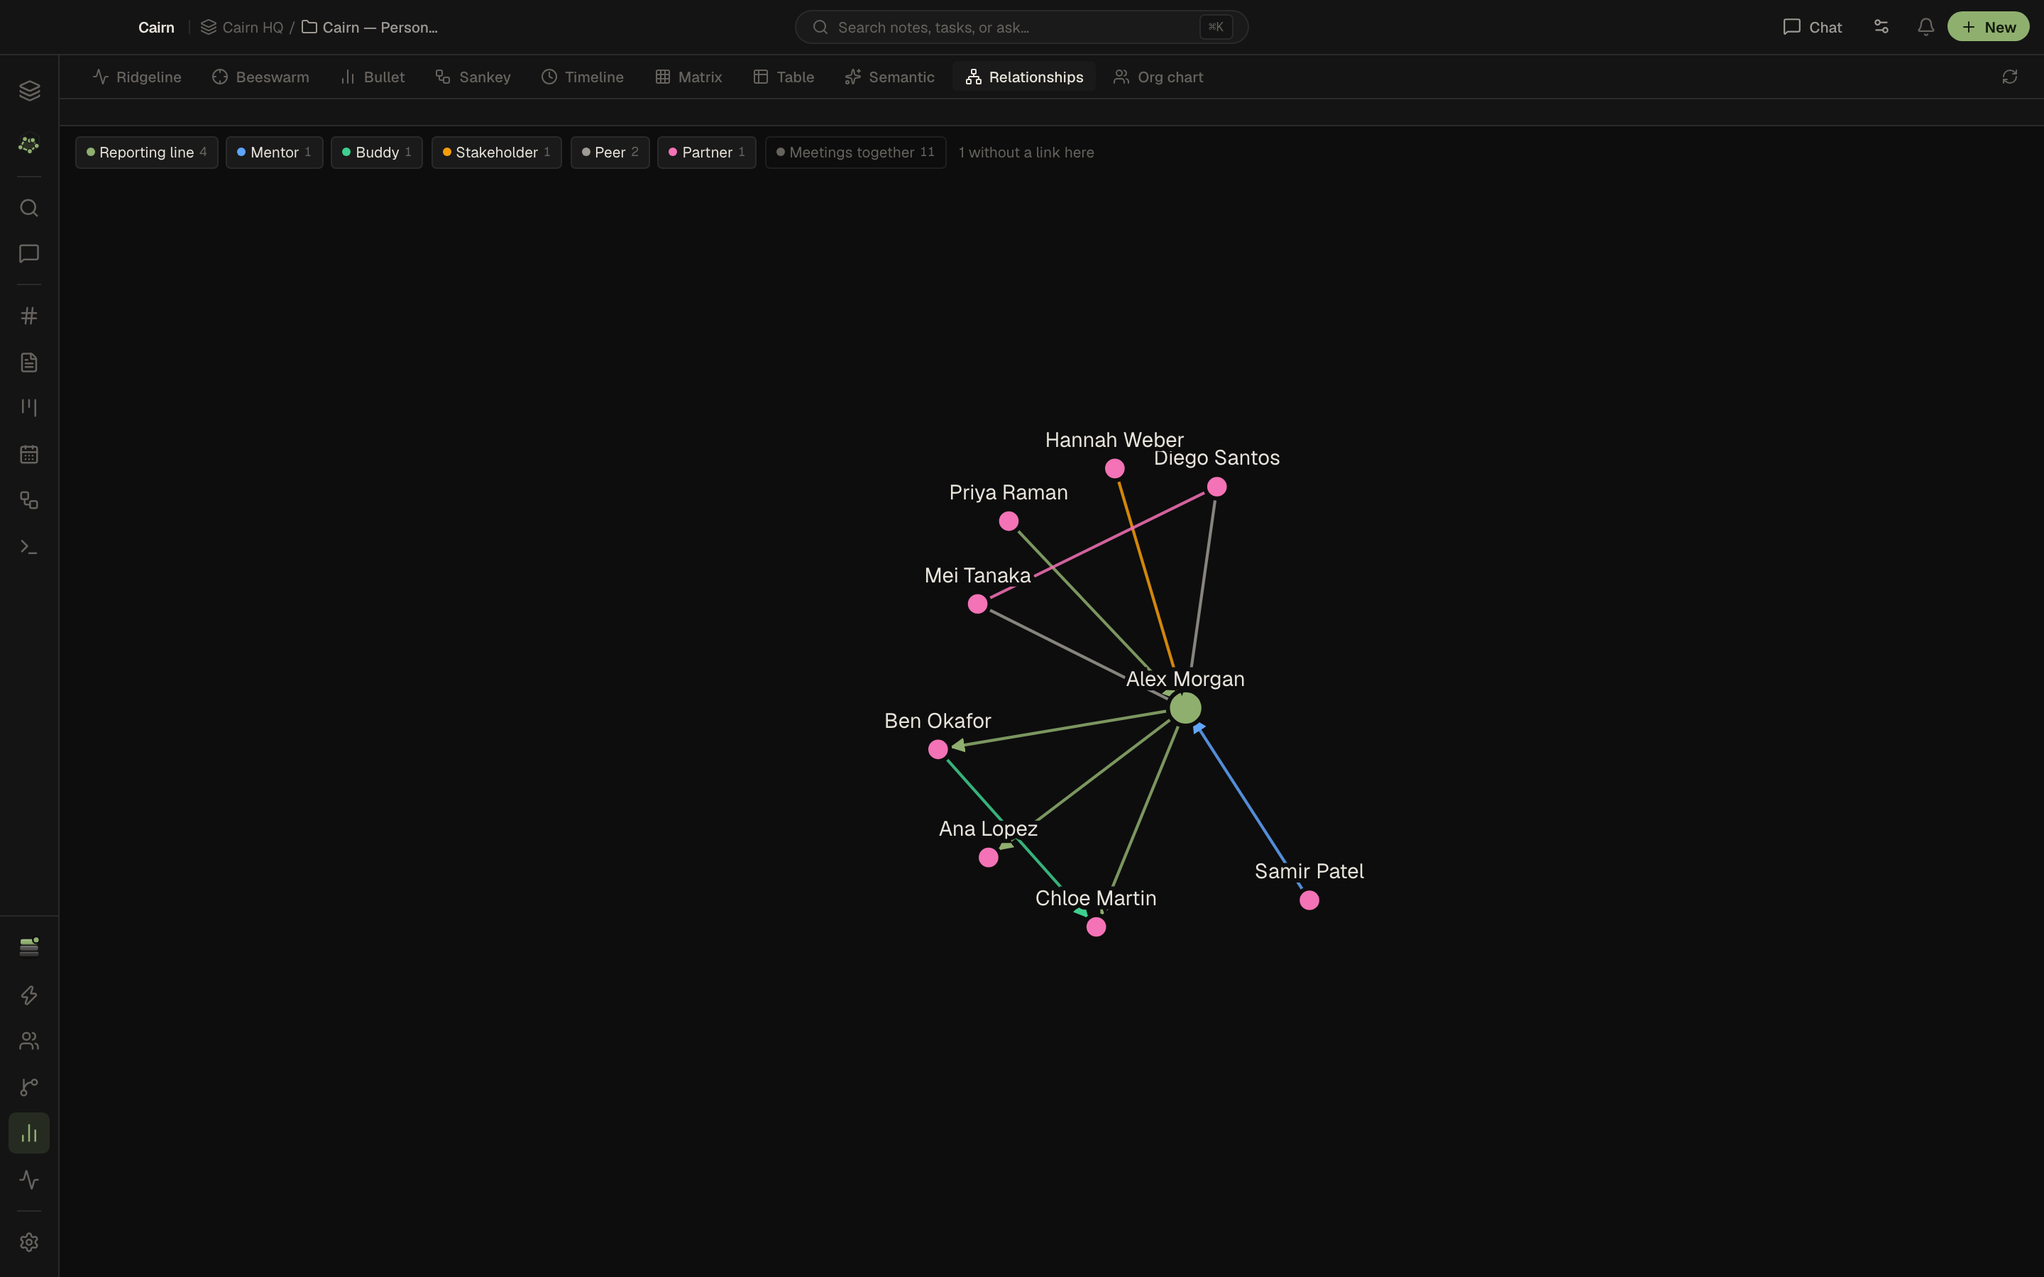
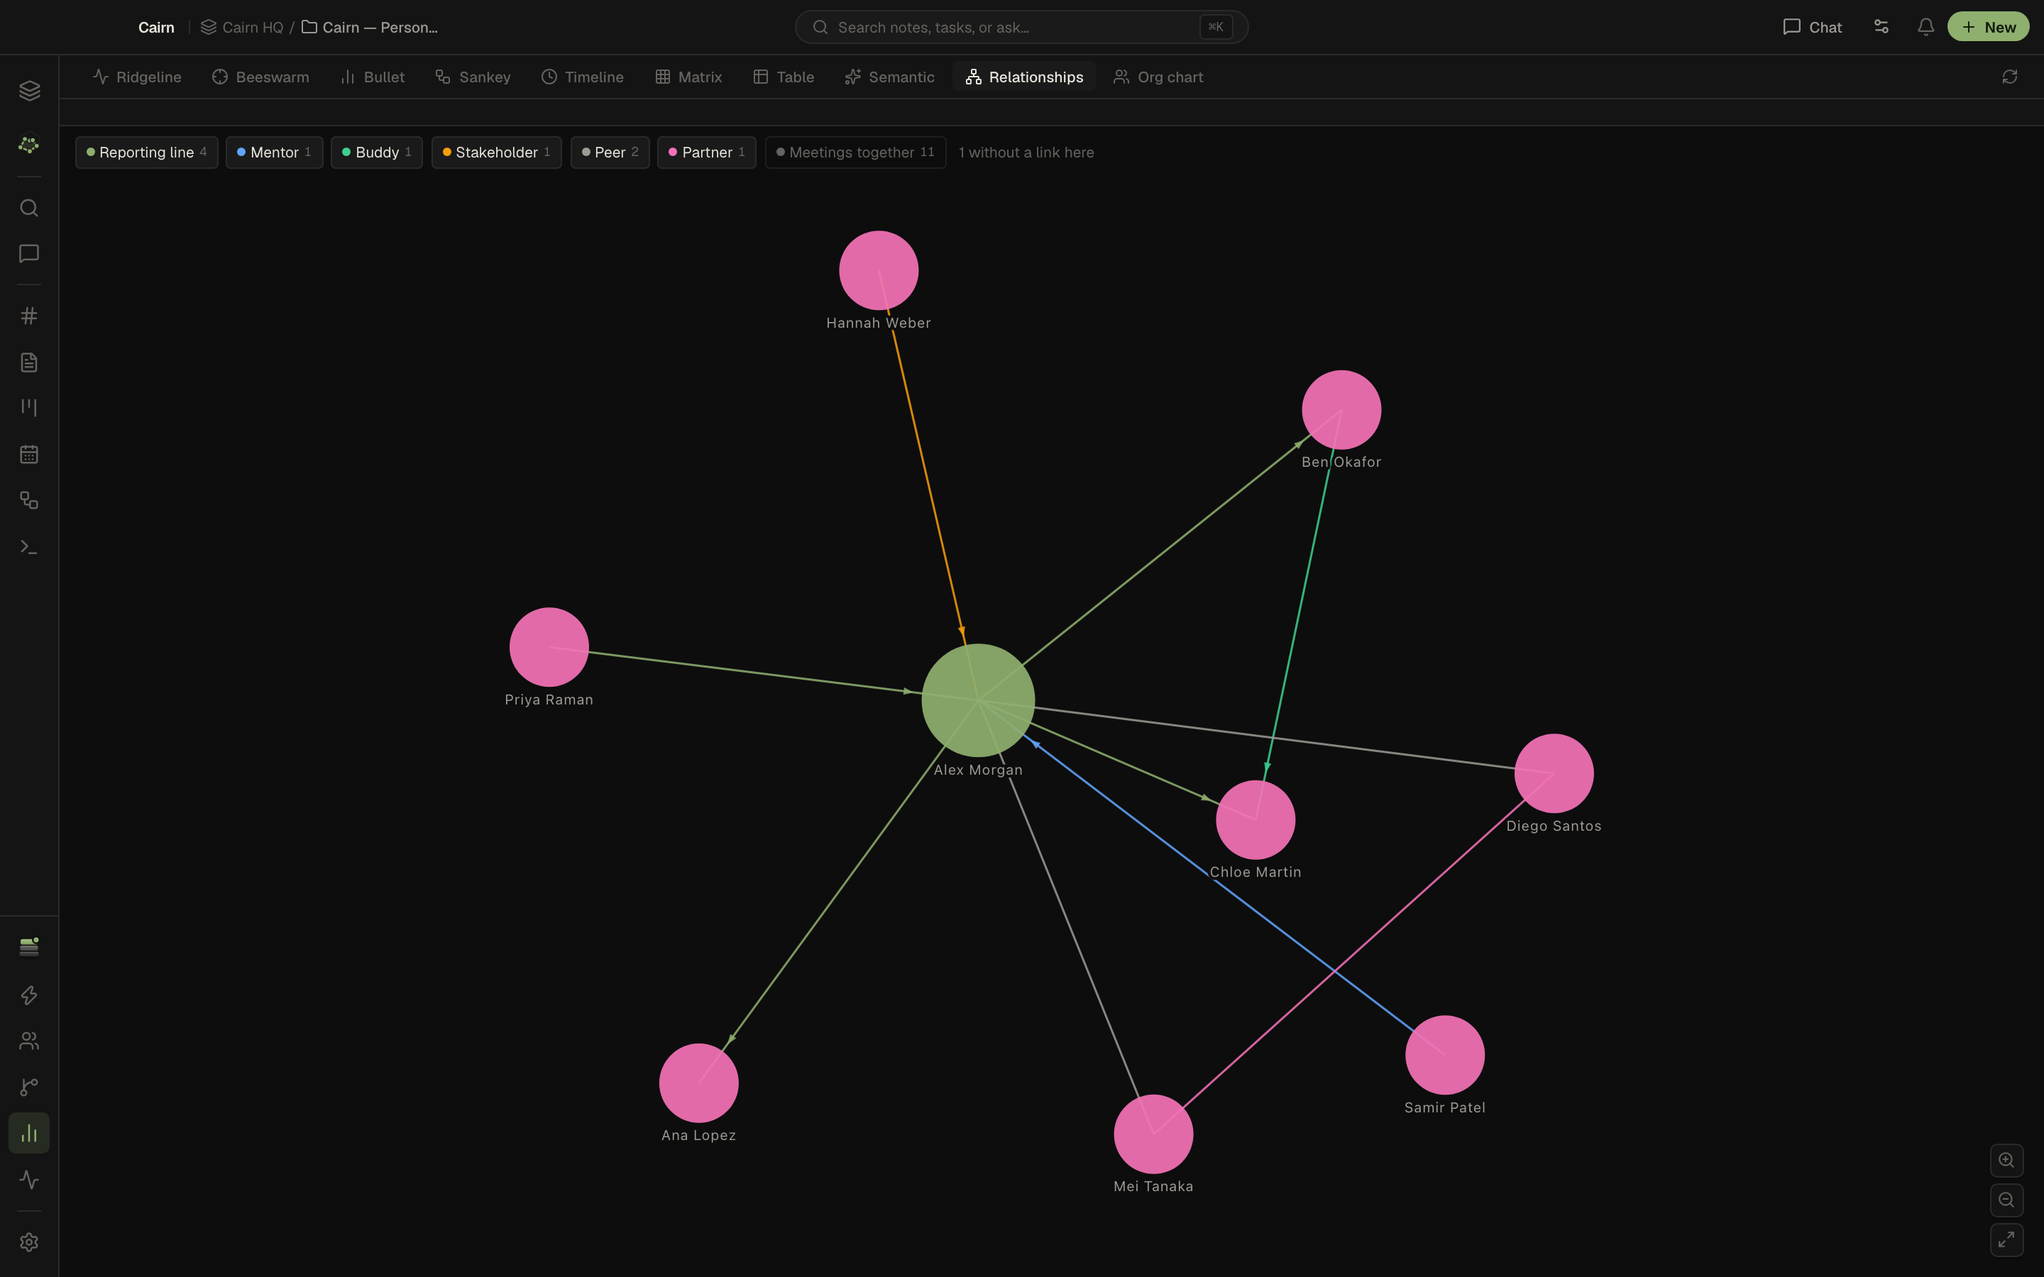
docs(people): teams, who manages whom, the People pictures, eight new screenshots; People takes ⌘7

diff --git a/docs/people.html b/docs/people.html
@@ -5,7 +5,7 @@
   <meta charset="UTF-8">
   <meta name="viewport" content="width=device-width, initial-scale=1.0">
   <title>People — Cairn Docs</title>
-  <meta name="description" content="Keep track of the people you work with in Cairn: person pages, meeting attendees, 1:1 prep, a relationship map and org chart, and @ mentions in chat — all stored as plain notes you own.">
+  <meta name="description" content="Keep track of the people you work with in Cairn: person pages, teams, meeting attendees, 1:1 prep, an org chart, relationship map, time zones and world map, and @ mentions in chat — all stored as plain notes you own.">
   <meta property="og:title" content="People — Cairn Docs">
   <meta property="og:description" content="The people you work with, their meetings and your 1:1s — in the same local-first workspace as your notes.">
   <meta property="og:image" content="https://ddutchie.github.io/cairn-site/assets/screenshots/og-image.png">
@@ -95,9 +95,11 @@
         <a href="people.html" class="sidebar-link active">People</a>
         <a href="#view" class="sidebar-anchor">The People view</a>
         <a href="#person" class="sidebar-anchor">A person's page</a>
+        <a href="#teams" class="sidebar-anchor">Teams</a>
+        <a href="#managers" class="sidebar-anchor">Who manages whom</a>
         <a href="#meetings" class="sidebar-anchor">Meetings &amp; attendees</a>
         <a href="#one-on-one" class="sidebar-anchor">The 1:1 loop</a>
-        <a href="#insights" class="sidebar-anchor">Relationships &amp; org chart</a>
+        <a href="#pictures" class="sidebar-anchor">Pictures of your people</a>
         <a href="#mention" class="sidebar-anchor">@ a person in chat</a>
         <a href="#migrate" class="sidebar-anchor">Bringing in existing notes</a>
         <a href="#privacy" class="sidebar-anchor">Privacy</a>
@@ -122,10 +124,7 @@
       <h1>People</h1>
       <p class="docs-lead">Keep track of the people you work with next to your notes. Cairn knows who is in each meeting, what you owe each other and when you last spoke, and your assistant can use all of it. Everything stays in your workspace as notes you own.</p>
 
-      <div class="callout">
-        <div class="callout-title">Preview</div>
-        <p>People is off by default. Nothing in Cairn changes until you turn it on in <strong>Settings → Views</strong>. In a release build the switch is hidden at first: open <strong>Settings → About</strong> and click the version line seven times quickly. The unlock is stored on this device only and never synced.</p>
-      </div>
+      <p>People is in the sidebar (<kbd>⌘7</kbd>). If you don't need it, hide it in <strong>Settings → Sidebar &amp; views</strong>.</p>
 
       <figure class="docs-screenshot">
         <img src="../assets/screenshots/docs/people.png" alt="The People view: a list grouped by relationship, and a person page with next meeting, prep brief and timeline" onerror="this.closest('figure').style.display='none'">
@@ -133,7 +132,8 @@
       </figure>
 
       <h2 id="view">The People view</h2>
-      <p>People sits in the sidebar once it's on and shown in <strong>Settings → Views</strong>. The list is grouped by how someone relates to you: direct reports, manager, peers, stakeholders, mentors and candidates. Search by name, filter by relationship, and use <strong>Add person</strong> to create one.</p>
+      <p>The list is grouped by how someone relates to you by default: direct reports, manager, peers, stakeholders, mentors and candidates. Group it by <strong>team</strong>, <strong>location</strong> (with each place's local time), <strong>when you last met</strong> or <strong>name</strong> instead; Cairn remembers your choice. You are pinned at the top. Search by name, filter by relationship, and use <strong>Add person</strong> to create one.</p>
+      <p>A switcher at the top of the view swaps the list for a picture of the same people: <a href="#teams">Teams</a>, and the <a href="#pictures">Org chart, Relationships, Time zones, Rhythm, Bridges and Map</a>. Click anyone in a picture to open them in a side panel.</p>
       <p>When Cairn finds someone while capturing a meeting or when an assistant adds them, they land in a <strong>Suggested people</strong> tray at the top of the list. Confirm to keep them, or dismiss: a dismissed person is remembered, so they don't come back.</p>
 
       <h2 id="person">A person's page</h2>
@@ -143,6 +143,33 @@
         <li><strong>Persona note</strong> — an ordinary note about the person (goals, working style). Edit it on their page or choose <strong>Open in Notes</strong>. While People is on, persona notes stay out of the Notes list and note pickers; a <strong>Show people's notes</strong> switch in Notes brings them back. The file stays where it was, so Obsidian, links and search are unaffected.</li>
         <li><strong>Slack details</strong> — with a Slack app connected, their title, local time and pronouns show under the name, refreshed in the background. They are read when you look and never written into your notes.</li>
       </ul>
+
+      <ul>
+        <li><strong>Teams</strong> — every team they're on, with add and remove, and the teams they were on before.</li>
+        <li><strong>Where they are</strong> — a location fills in their time zone, which puts them on the map and the time-zone strip.</li>
+        <li><strong>Duplicates</strong> — when Cairn suggests "Sam" and you already have "Sam Whitfield", choose <strong>Same as…</strong> on the suggestion, or <strong>Duplicate</strong> in a person's settings. Their meetings, notes, tasks and teams move over, and the other name becomes an alias.</li>
+      </ul>
+
+      <h2 id="teams">Teams</h2>
+      <figure class="docs-screenshot">
+        <img src="../assets/screenshots/docs/people-teams.png" alt="The Teams picture: teams nested under the team above them, each card with its lead, member count and channel, and the people without a team underneath" onerror="this.closest('figure').style.display='none'">
+        <figcaption>Teams — nested under the team they sit under, with each team's lead, size and channel.</figcaption>
+      </figure>
+      <p>A team has a page: what it owns, who leads it, the team it sits under, its channel and links, and its members. Open a team from <strong>Teams</strong> to read or edit it, add and remove members, or start a new team with <strong>New team</strong>.</p>
+      <figure class="docs-screenshot">
+        <img src="../assets/screenshots/docs/people-team-page.png" alt="A team page open beside the Teams picture: what the team owns, its lead, channel and links, and its members" onerror="this.closest('figure').style.display='none'">
+        <figcaption>A team's page — what it owns, its lead, channel and links, and who is on it.</figcaption>
+      </figure>
+      <ul>
+        <li><strong>More than one team</strong> — everyone has one home team, and can also be in any number of guilds, projects and committees (set a team's kind on its page).</li>
+        <li><strong>Roles</strong> — each member can have a role on the team, such as "Tech lead" or "Embedded designer".</li>
+        <li><strong>History</strong> — taking someone off a team keeps when they joined and left, and the team page lists past members. Moving someone to another team ends their old membership instead of erasing it.</li>
+        <li><strong>Renames and duplicates</strong> — a team keeps its members through a rename, on every device. The same team made on two devices becomes one. If two teams still end up with one name, the team page says so and merges them; <strong>Merge into</strong> folds one team into another.</li>
+        <li><strong>Checks</strong> — the team page notes when its lead isn't on it, or when nobody on it reports to them.</li>
+      </ul>
+
+      <h2 id="managers">Who manages whom</h2>
+      <p>Marking someone as your manager or direct report (or mentor, buddy or stakeholder) and the line between you in the org chart and Relationships are the same fact: change one and the other follows. Taking the relationship off keeps them as a <em>former</em> manager, so the history stays.</p>
 
       <h2 id="meetings">Meetings &amp; attendees</h2>
       <p>A meeting note can list who was there with two optional properties at the top of the file:</p>
@@ -160,18 +187,45 @@ date: 2026-11-19
         <li><strong>Overdue 1:1s</strong> — Today lists "No 1:1 with Ben in 3 weeks" when a cadence slips, and shows who is on each meeting, linked to the people you track.</li>
       </ul>
 
-      <h2 id="insights">Relationships &amp; org chart</h2>
-      <p><a href="insights.html">Insights</a> gets two more canvases while People is on.</p>
+      <h2 id="pictures">Pictures of your people</h2>
+      <p>Pick a picture from the switcher at the top of the People view. <a href="insights.html">Insights</a> keeps the Relationships and Org chart canvases too.</p>
+      <figure class="docs-screenshot">
+        <img src="../assets/screenshots/docs/people-org-chart.png" alt="The org chart: your manager above you, your direct reports below, each card with role and team" onerror="this.closest('figure').style.display='none'">
+        <figcaption>Org chart — reporting lines with you highlighted; a team picker dims everyone outside one team.</figcaption>
+      </figure>
+      <p><strong>Org chart</strong> shows reporting lines with you highlighted, each card with the person's role and team. Pick a team to dim everyone outside it. Anyone outside a reporting line is listed underneath. Zoom with the buttons or <kbd>⌘</kbd>/<kbd>Ctrl</kbd> and scroll.</p>
+      <figure class="docs-screenshot">
+        <img src="../assets/screenshots/docs/people-org-teams.png" alt="The org chart's Teams switch: the team tree, each team with its lead and size" onerror="this.closest('figure').style.display='none'">
+        <figcaption>The org chart's <strong>Teams</strong> switch draws the team tree instead. Click a team to open it.</figcaption>
+      </figure>
       <figure class="docs-screenshot">
         <img src="../assets/screenshots/docs/people-relationships.png" alt="The relationship map: people as nodes, coloured links for reporting lines, mentors, buddies, stakeholders and peers" onerror="this.closest('figure').style.display='none'">
         <figcaption>Relationships — reporting lines, mentors, buddies, stakeholders and peers, with a layer for meetings together.</figcaption>
       </figure>
-      <p><strong>Relationships</strong> draws the people you work with and how they connect, with a filter chip per relationship type and an optional "meetings together" layer. Click a person to open their page.</p>
+      <p><strong>Relationships</strong> draws the people you work with and how they connect, with a filter chip per relationship type and an optional "meetings together" layer.</p>
       <figure class="docs-screenshot">
-        <img src="../assets/screenshots/docs/people-org-chart.png" alt="The org chart: your manager above you, your direct reports below, and people outside a reporting line listed underneath" onerror="this.closest('figure').style.display='none'">
-        <figcaption>Org chart — built from who manages whom, with you highlighted.</figcaption>
+        <img src="../assets/screenshots/docs/people-zones.png" alt="The time-zone strip: each person's working day laid out against yours over 24 hours, with who is at work or asleep now" onerror="this.closest('figure').style.display='none'">
+        <figcaption>Time zones — everyone's working day against yours.</figcaption>
       </figure>
-      <p><strong>Org chart</strong> shows reporting lines with you highlighted. Anyone outside a reporting line is listed underneath.</p>
+      <p><strong>Time zones</strong> lays out each person's working day against yours in a 24-hour strip, with who is at work or asleep right now.</p>
+      <figure class="docs-screenshot">
+        <img src="../assets/screenshots/docs/people-rhythm.png" alt="Rhythm: the people you meet on a cadence, with who is due or overdue for a 1:1" onerror="this.closest('figure').style.display='none'">
+        <figcaption>Rhythm — who you're due to see, against the cadence you set.</figcaption>
+      </figure>
+      <figure class="docs-screenshot">
+        <img src="../assets/screenshots/docs/people-bridges.png" alt="Bridges: the people you reach others through, with a ring on anyone who is the only route to someone" onerror="this.closest('figure').style.display='none'">
+        <figcaption>Bridges — the people you reach others through.</figcaption>
+      </figure>
+      <p><strong>Rhythm</strong> shows who you are due to see, against the 1:1 cadence you set. <strong>Bridges</strong> shows the people you reach others through: anyone who is your only route to someone has a ring, and selecting them lights up the people who would drop off your map without them.</p>
+      <figure class="docs-screenshot">
+        <img src="../assets/screenshots/docs/people-map.png" alt="The world map: groups of people placed by time zone, night shaded, with a slider for later or earlier hours" onerror="this.closest('figure').style.display='none'">
+        <figcaption>Map — everyone placed by time zone, with the night shaded.</figcaption>
+      </figure>
+      <figure class="docs-screenshot">
+        <img src="../assets/screenshots/docs/people-globe.png" alt="The same people on a globe facing you, with day and night" onerror="this.closest('figure').style.display='none'">
+        <figcaption>Globe — the same map as a globe you can turn.</figcaption>
+      </figure>
+      <p><strong>Map</strong> puts everyone on a world map from their time zone, shades the night and marks who is probably offline. A slider shows who is online later or earlier. Zoom and pan the map, or switch to <strong>Globe</strong> and drag to turn the Earth.</p>
 
       <h2 id="mention">@ a person in chat</h2>
       <p>Type <kbd>@</kbd> in the chat box or in a coding session and pick someone you track, or just write <code>@Ana</code>. When you send, Cairn gives the assistant what it knows about them: their relationship, recent meetings, open items and last 1:1. Ask "prep my 1:1 with @Ana" and it starts from facts, not guesses.</p>
@@ -180,7 +234,7 @@ date: 2026-11-19
         <figcaption>The <kbd>@</kbd> picker lists the people you track next to notes, tasks and files.</figcaption>
       </figure>
       <p>Matching is exact on a name or alias, ignoring case and accents. If two people share a name, the assistant asks which one you mean. Private persona notes stay out of what it receives.</p>
-      <p>Assistants and connected agents also get a <code>people</code> tool: they can look people up, record who attended a meeting note and when, and set a task's owner. Anything they infer rather than read stated is added as a suggestion for you to confirm. See <a href="mcp.html">MCP Server</a>.</p>
+      <p>Assistants and connected agents also get a <code>people</code> tool: they can look people up, list teams and who is on them, record who attended a meeting note and when, set a task's owner, put people on teams, record that a relationship ended, and merge a duplicate person. Ask "who is on Sync?", "put Ana and Ben on Sync, led by Alex" or "Priya stopped being my manager in May". Anything they infer rather than read stated is added as a suggestion for you to confirm. See <a href="mcp.html">MCP Server</a>.</p>
 
       <h2 id="migrate">Bringing in existing notes</h2>
       <p>If you already keep notes about people, <strong>Find in notes</strong> in the People view scans for them: notes tagged <code>person</code>, notes in a <code>People</code> folder or a <code>Discussions/&lt;Name&gt;</code> folder, and meeting notes with an <code>**Attendees:**</code> line or an <code>attendees</code> property. It shows what it found and how sure it is, and you tick what to bring in.</p>

diff --git a/docs/index.html b/docs/index.html
@@ -179,9 +179,10 @@
           <tr><td>Calendar</td><td><kbd>⌘4</kbd></td></tr>
           <tr><td>Idea Flow</td><td><kbd>⌘5</kbd></td></tr>
           <tr><td>Agent</td><td><kbd>⌘6</kbd></td></tr>
-          <tr><td>Knowledge Graph</td><td><kbd>⌘7</kbd></td></tr>
-          <tr><td>Insights</td><td><kbd>⌘8</kbd></td></tr>
-          <tr><td>Automations</td><td><kbd>⌘9</kbd></td></tr>
+          <tr><td>People</td><td><kbd>⌘7</kbd></td></tr>
+          <tr><td>Knowledge Graph</td><td><kbd>⌘8</kbd></td></tr>
+          <tr><td>Insights</td><td><kbd>⌘9</kbd></td></tr>
+          <tr><td>Automations</td><td>Sidebar</td></tr>
           <tr><td>Usage</td><td>Sidebar</td></tr>
           <tr><td>Today</td><td>Sidebar</td></tr>
         </tbody>

diff --git a/SITE-SYNC.md b/SITE-SYNC.md
@@ -108,6 +108,7 @@ to re-read the whole changelog history — only the delta since the last sync.
 | 2026-11-17 | v3.2.0 | Today pass: new `docs/today.html`, Today links in all sidebars, homepage row, `get_today` in MCP/chat/agent docs, MCP count 19→20, onboarding + shortcuts refresh, regenerated screenshots (incl. `today.png`, fixed blank `usage.png`). |
 | 2026-11-19 | v3.2.4 | People pass: new `docs/people.html`, `people` tool in MCP/chat/agent tables, homepage row, sidebars, four People screenshots (light + dark). Held on `feat/people-docs` until launch. |
 | 2026-11-20 | v3.3.0 (partial) | Tool list only: `people` row covers teams, `archive`, `merge`, `team_upsert`/`team_delete` and ended relationships (no longer "only when the People feature is on"); `_tools.json` version v3.3.0. New "Instructions for agents" section on `docs/mcp.html` (the server now sends its workflow at connect). Screenshots regenerated with the teams fixture. Tool set unchanged vs the app exporter. The rest of v3.3.0 (new People pictures, mobile sync removal) still to fold in, so "Last synced" stays v3.2.4. |
+| 2026-11-20 | v3.3.0 (partial) | People page expanded: Preview callout replaced (People is in the sidebar, ⌘7); list groupings; Teams, Who manages whom and "Pictures of your people" sections (org chart by team, Relationships, Time zones, Rhythm, Bridges, Map and Globe); merging duplicates; people tool line. Eight new People screenshots (light + dark) from `tests/e2e/screenshots.spec.ts`. `_views.json` refreshed: People takes ⌘7, Graph ⌘8, Insights ⌘9, Automations unnumbered. Mobile sync removal still not covered. |
 |---|---|---|
 | 2026-11-17 | v3.2.0 | Today pass: new `docs/today.html`, Today links in all sidebars, homepage row, `get_today` in MCP/chat/agent docs, MCP count 19→20, onboarding + shortcuts refresh, regenerated screenshots (incl. `today.png`, fixed blank `usage.png`). |
 |---|---|---|
